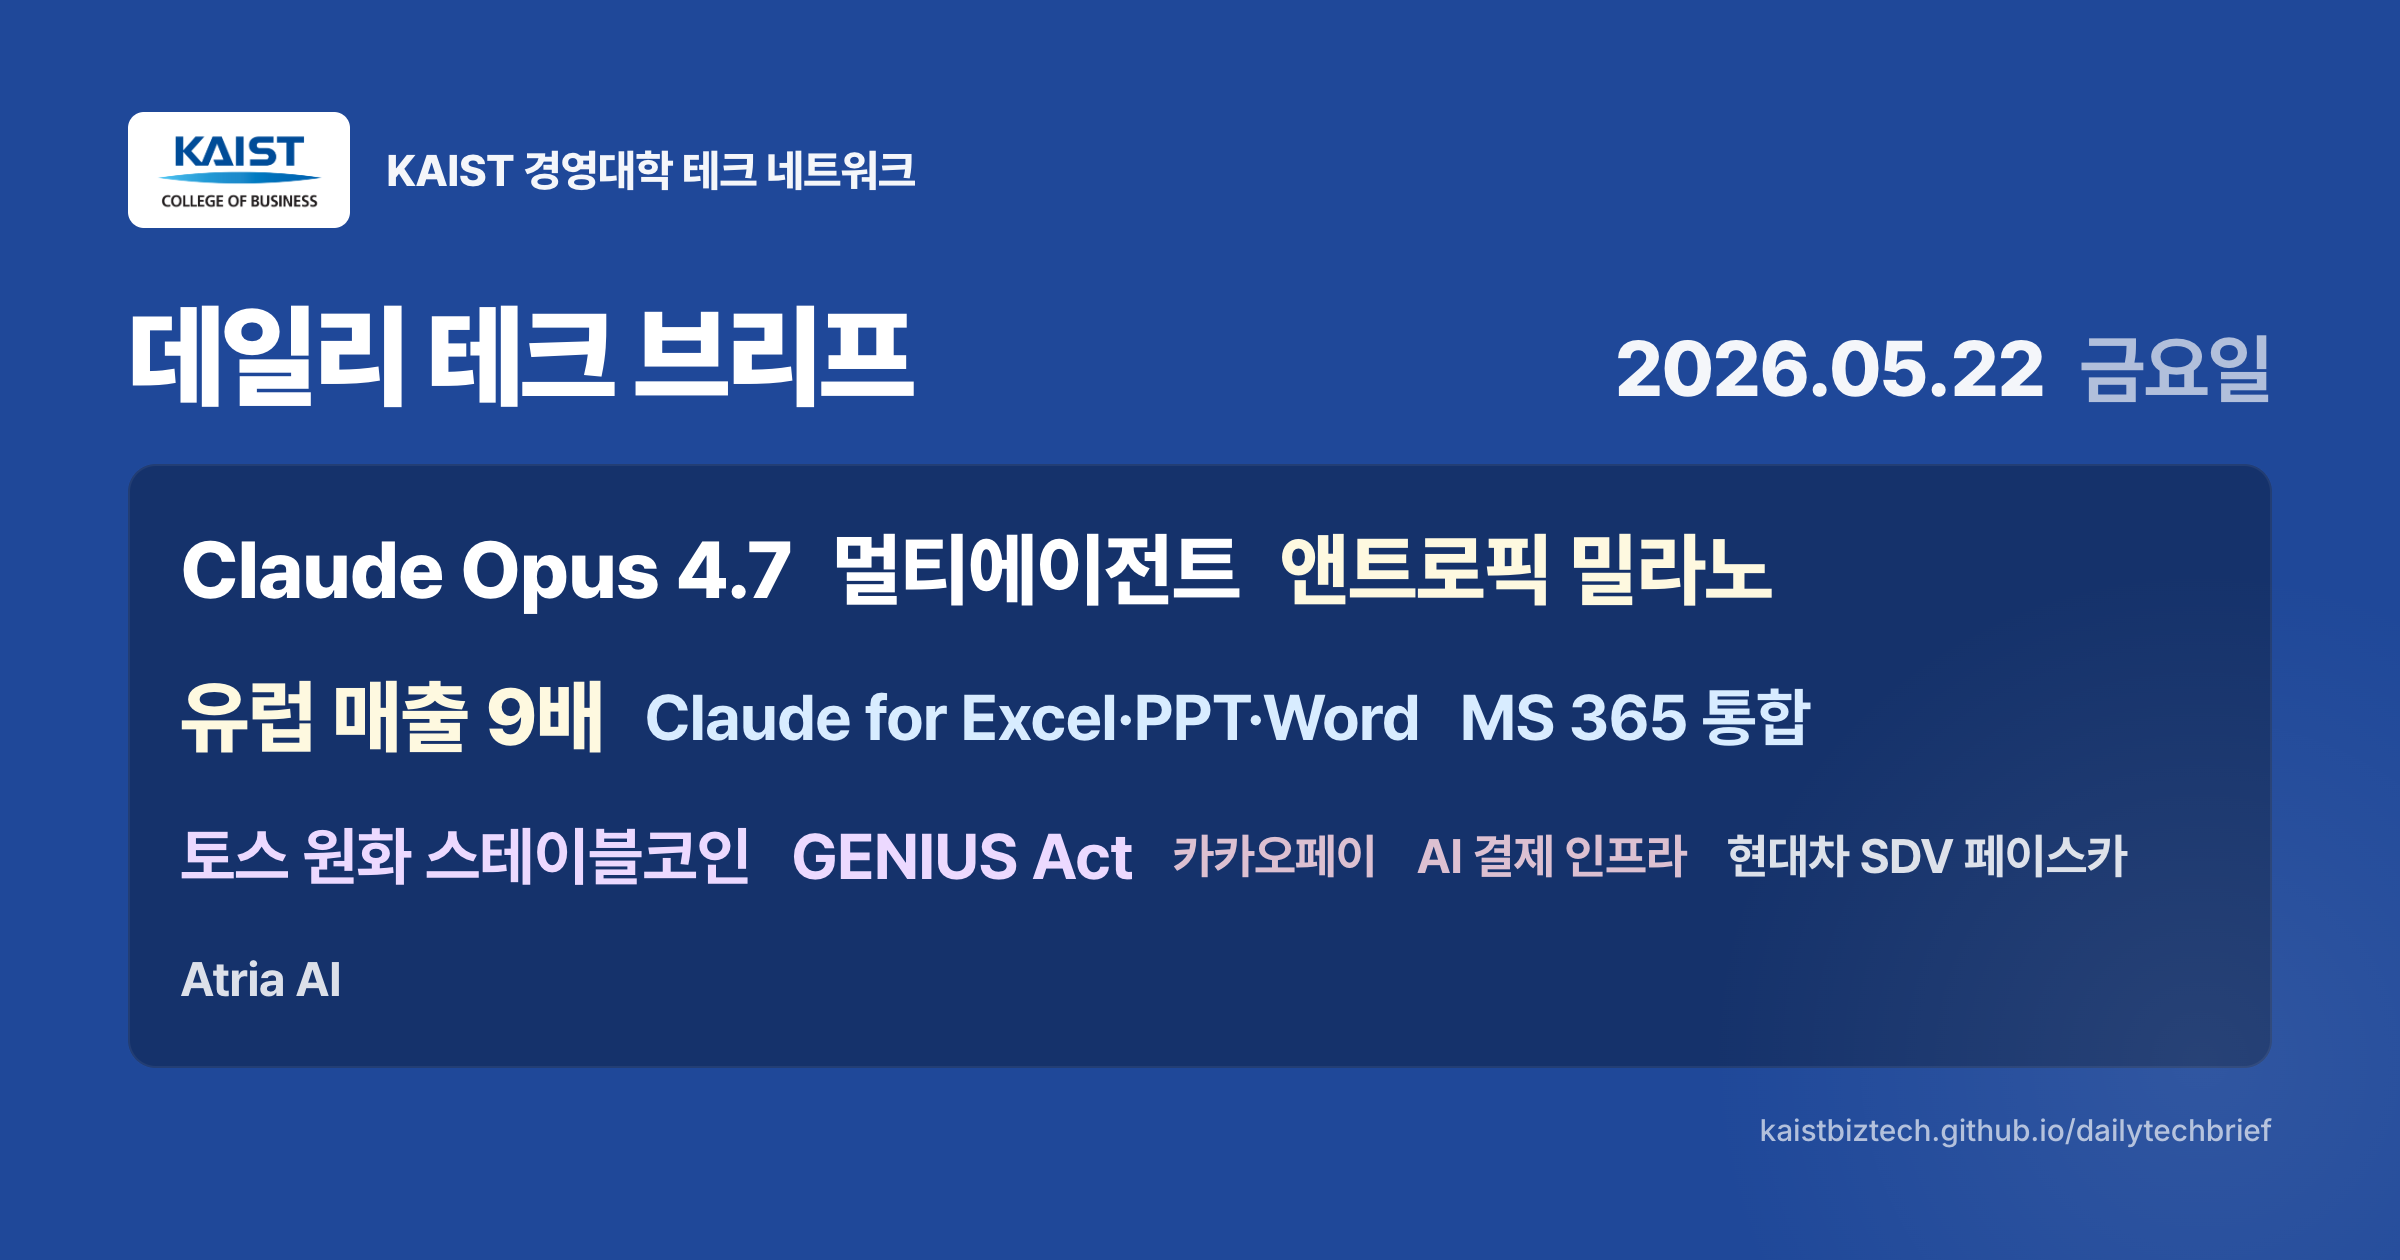
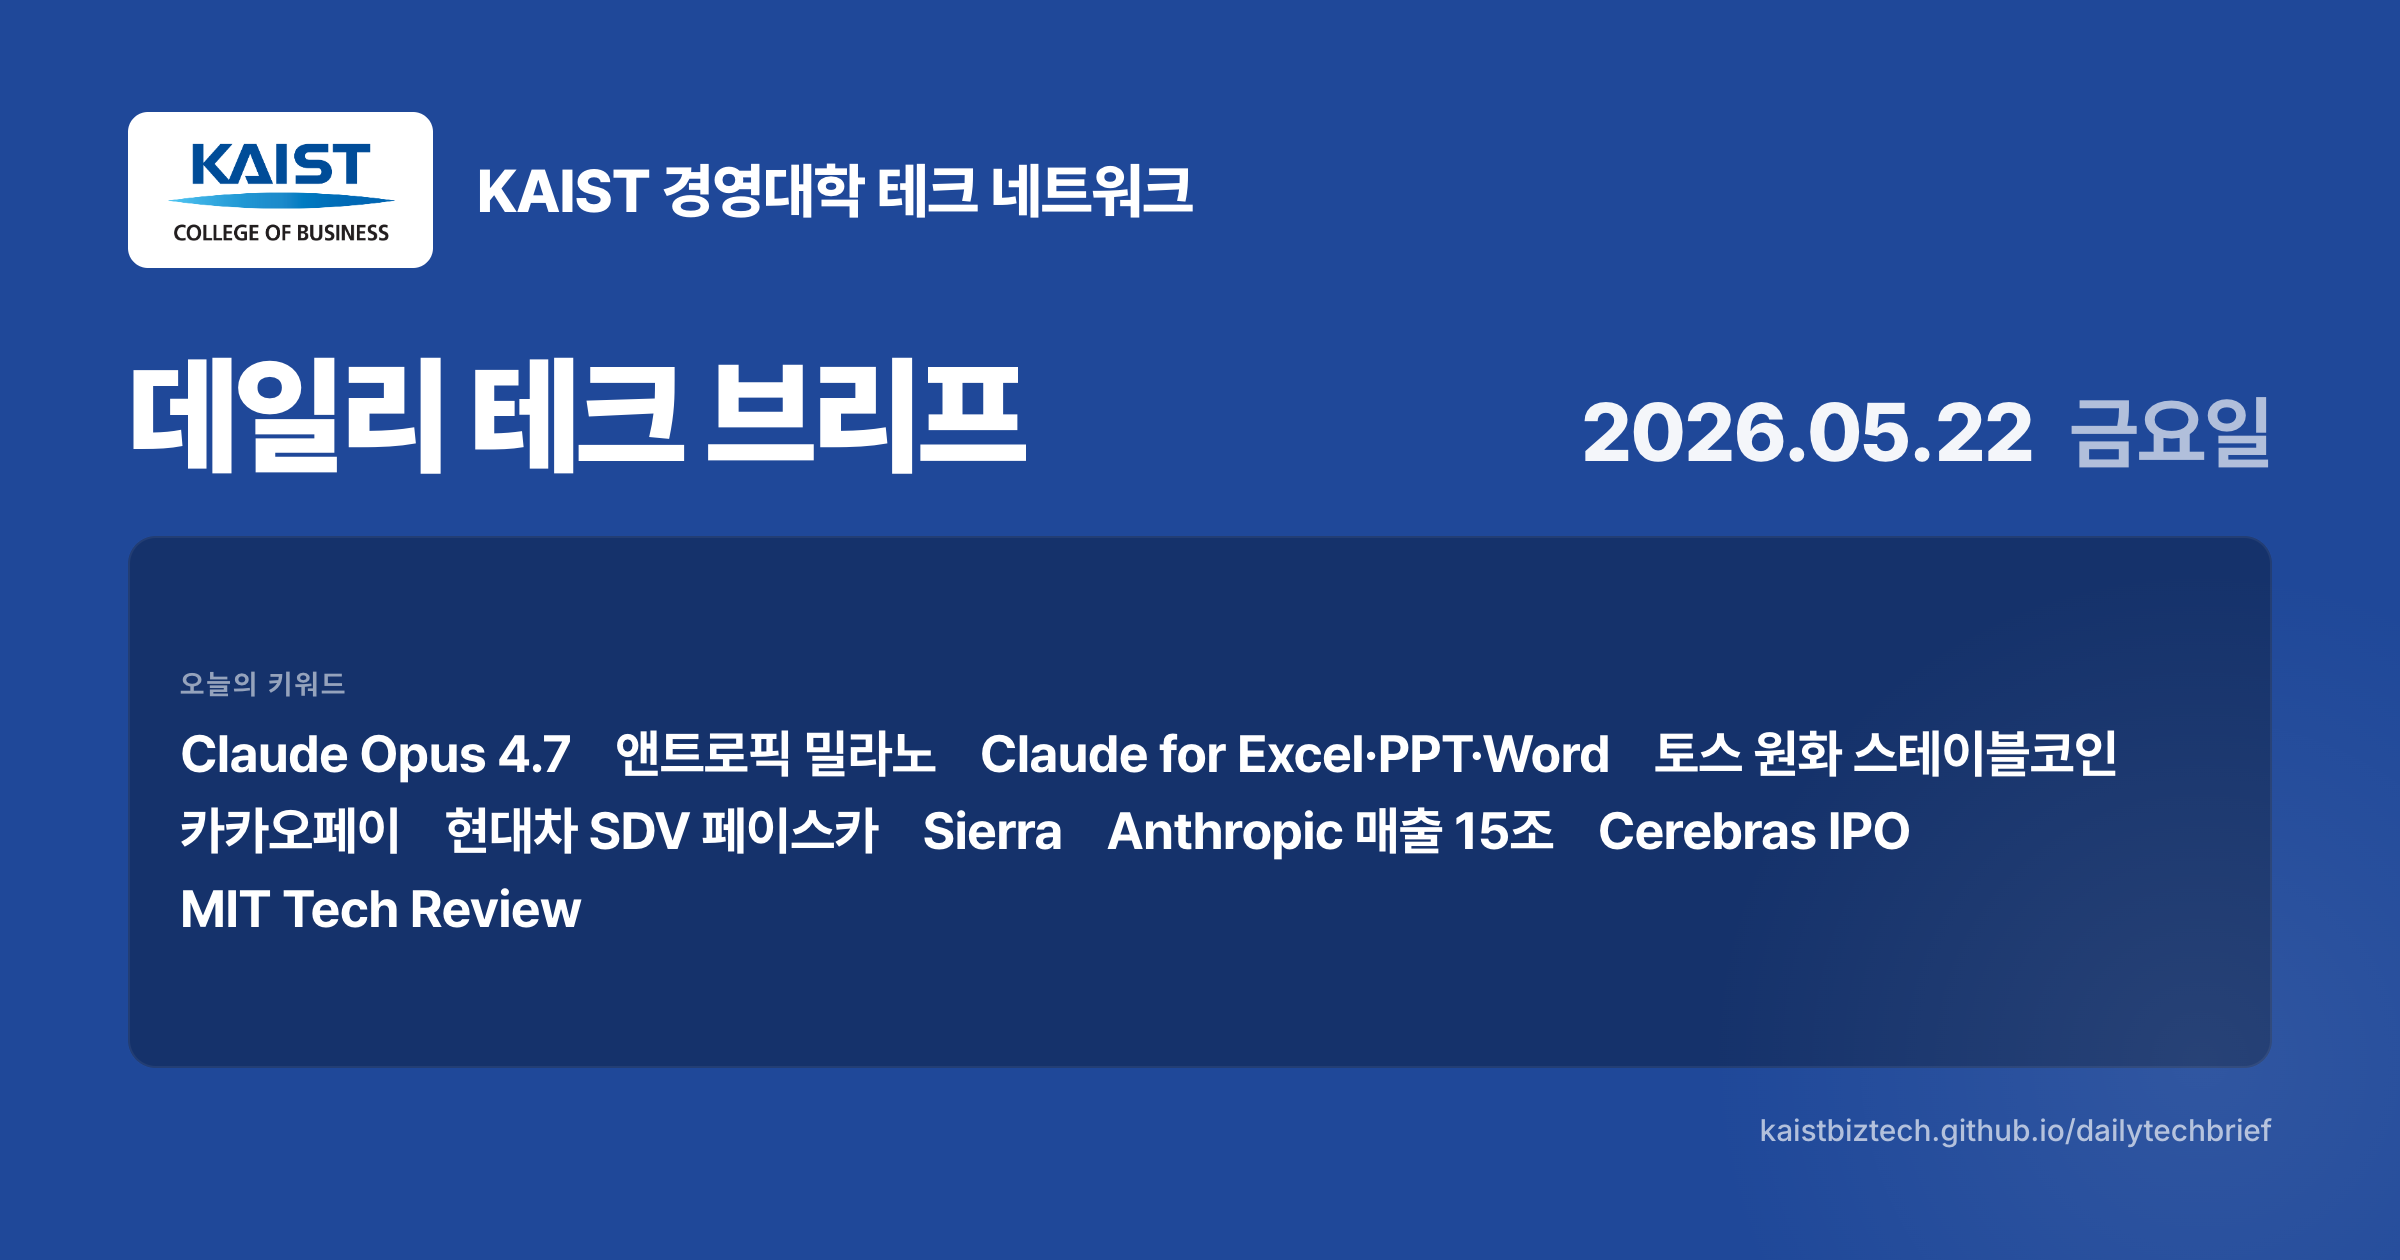
OG card: bigger brand, simpler '오늘의 키워드' (10 equal keywords, one per card)

diff --git a/.claude/skills/tech-news-daily/templates/og-card.html b/.claude/skills/tech-news-daily/templates/og-card.html
@@ -37,26 +37,26 @@
     pointer-events: none;
   }
 
-  /* 상단 — 브랜드 */
+  /* 상단 — 브랜드 (크게) */
   .brand {
     display: flex;
     align-items: center;
-    gap: 18px;
-    margin-bottom: 36px;
+    gap: 22px;
+    margin-bottom: 42px;
   }
   .brand-logo {
-    height: 58px;
+    height: 78px;
     width: auto;
     flex-shrink: 0;
     background: #fff;
-    padding: 8px 12px;
-    border-radius: 8px;
+    padding: 10px 16px;
+    border-radius: 10px;
   }
   .brand-name {
-    font-size: 22px;
+    font-size: 30px;
     font-weight: 800;
-    letter-spacing: -0.015em;
-    color: rgba(255,255,255,0.95);
+    letter-spacing: -0.02em;
+    color: #fff;
   }
 
   /* 중앙 — 제호 + 날짜 */
@@ -65,18 +65,18 @@
     align-items: baseline;
     justify-content: space-between;
     gap: 28px;
-    margin-bottom: 26px;
+    margin-bottom: 28px;
     flex-wrap: wrap;
   }
   .masthead {
-    font-size: 56px;
+    font-size: 64px;
     font-weight: 900;
     line-height: 1;
     letter-spacing: -0.035em;
   }
   .date-line {
     font-family: 'Inter', 'Pretendard', sans-serif;
-    font-size: 38px;
+    font-size: 40px;
     font-weight: 800;
     letter-spacing: -0.02em;
     color: rgba(255,255,255,0.95);
@@ -88,34 +88,37 @@
     font-weight: 700;
   }
 
-  /* 키워드 — 가운데~하단 */
-  .keywords {
+  /* 오늘의 키워드 — 평등한 톤, 한 영역 */
+  .keywords-block {
     flex: 1;
     background: var(--kaist-blue-deep);
     border-radius: 14px;
-    padding: 22px 26px;
+    padding: 20px 26px;
     display: flex;
-    flex-wrap: wrap;
-    align-items: center;
-    gap: 12px 20px;
+    flex-direction: column;
+    justify-content: center;
     box-shadow: inset 0 0 0 1px rgba(255,255,255,0.06);
   }
+  .keywords-label {
+    font-size: 14px;
+    font-weight: 700;
+    letter-spacing: 0.08em;
+    color: rgba(255,255,255,0.55);
+    text-transform: uppercase;
+    margin-bottom: 12px;
+  }
+  .keywords {
+    display: flex;
+    flex-wrap: wrap;
+    gap: 10px 22px;
+  }
   .keywords .kw {
-    color: #fff;
+    font-size: 26px;
     font-weight: 700;
     letter-spacing: -0.015em;
-    line-height: 1.05;
+    line-height: 1.1;
+    color: #fff;
   }
-  .kw.size-1 { font-size: 18px; opacity: 0.65; font-weight: 600; }
-  .kw.size-2 { font-size: 24px; opacity: 0.85; }
-  .kw.size-3 { font-size: 32px; }
-  .kw.size-4 { font-size: 40px; font-weight: 800; }
-  /* 색조 — order 순환 */
-  .kw[data-order="1"], .kw[data-order="6"]  { color: #ffffff; }
-  .kw[data-order="2"], .kw[data-order="7"]  { color: #fef9e0; }
-  .kw[data-order="3"], .kw[data-order="8"]  { color: #d8ecff; }
-  .kw[data-order="4"], .kw[data-order="9"]  { color: #ecd9ff; }
-  .kw[data-order="5"], .kw[data-order="10"] { color: #ffd9e3; }
 
   /* 하단 — URL */
   .footer {
@@ -143,7 +146,10 @@
     <div class="date-line" id="dateLine">— <span class="dow"></span></div>
   </div>
 
-  <div class="keywords" id="keywordList"></div>
+  <div class="keywords-block">
+    <div class="keywords-label">오늘의 키워드</div>
+    <div class="keywords" id="keywordList"></div>
+  </div>
 
   <div class="footer">
     <div class="footer-url" id="footerUrl">kaistbiztech.github.io/dailytechbrief</div>
@@ -160,22 +166,16 @@
     document.getElementById('dateLine').innerHTML =
       `${dateStr} <span class="dow">${ed.dayOfWeek}요일</span>`;
 
-    // 상위 카드의 키워드만 노출 (1~6번). 1·2번 키워드는 size-4, 3·4번은 size-3, 5·6번은 size-2.
+    // 각 카드(1~10번)의 첫 번째 키워드 1개씩 = 정확히 10개를 평등하게 노출
     const cloud = document.getElementById('keywordList');
     cloud.innerHTML = '';
-    const TOP = ed.newsItems.slice(0, 6);
-    TOP.forEach(it => {
-      let size;
-      if (it.order <= 2) size = 4;
-      else if (it.order <= 4) size = 3;
-      else size = 2;
-      (it.keywords || []).slice(0, 2).forEach(k => {
-        const span = document.createElement('span');
-        span.className = 'kw size-' + size;
-        span.dataset.order = it.order;
-        span.textContent = k;
-        cloud.appendChild(span);
-      });
+    ed.newsItems.forEach(it => {
+      const kw = (it.keywords || [])[0];
+      if (!kw) return;
+      const span = document.createElement('span');
+      span.className = 'kw';
+      span.textContent = kw;
+      cloud.appendChild(span);
     });
   }
   window.renderEdition = render;